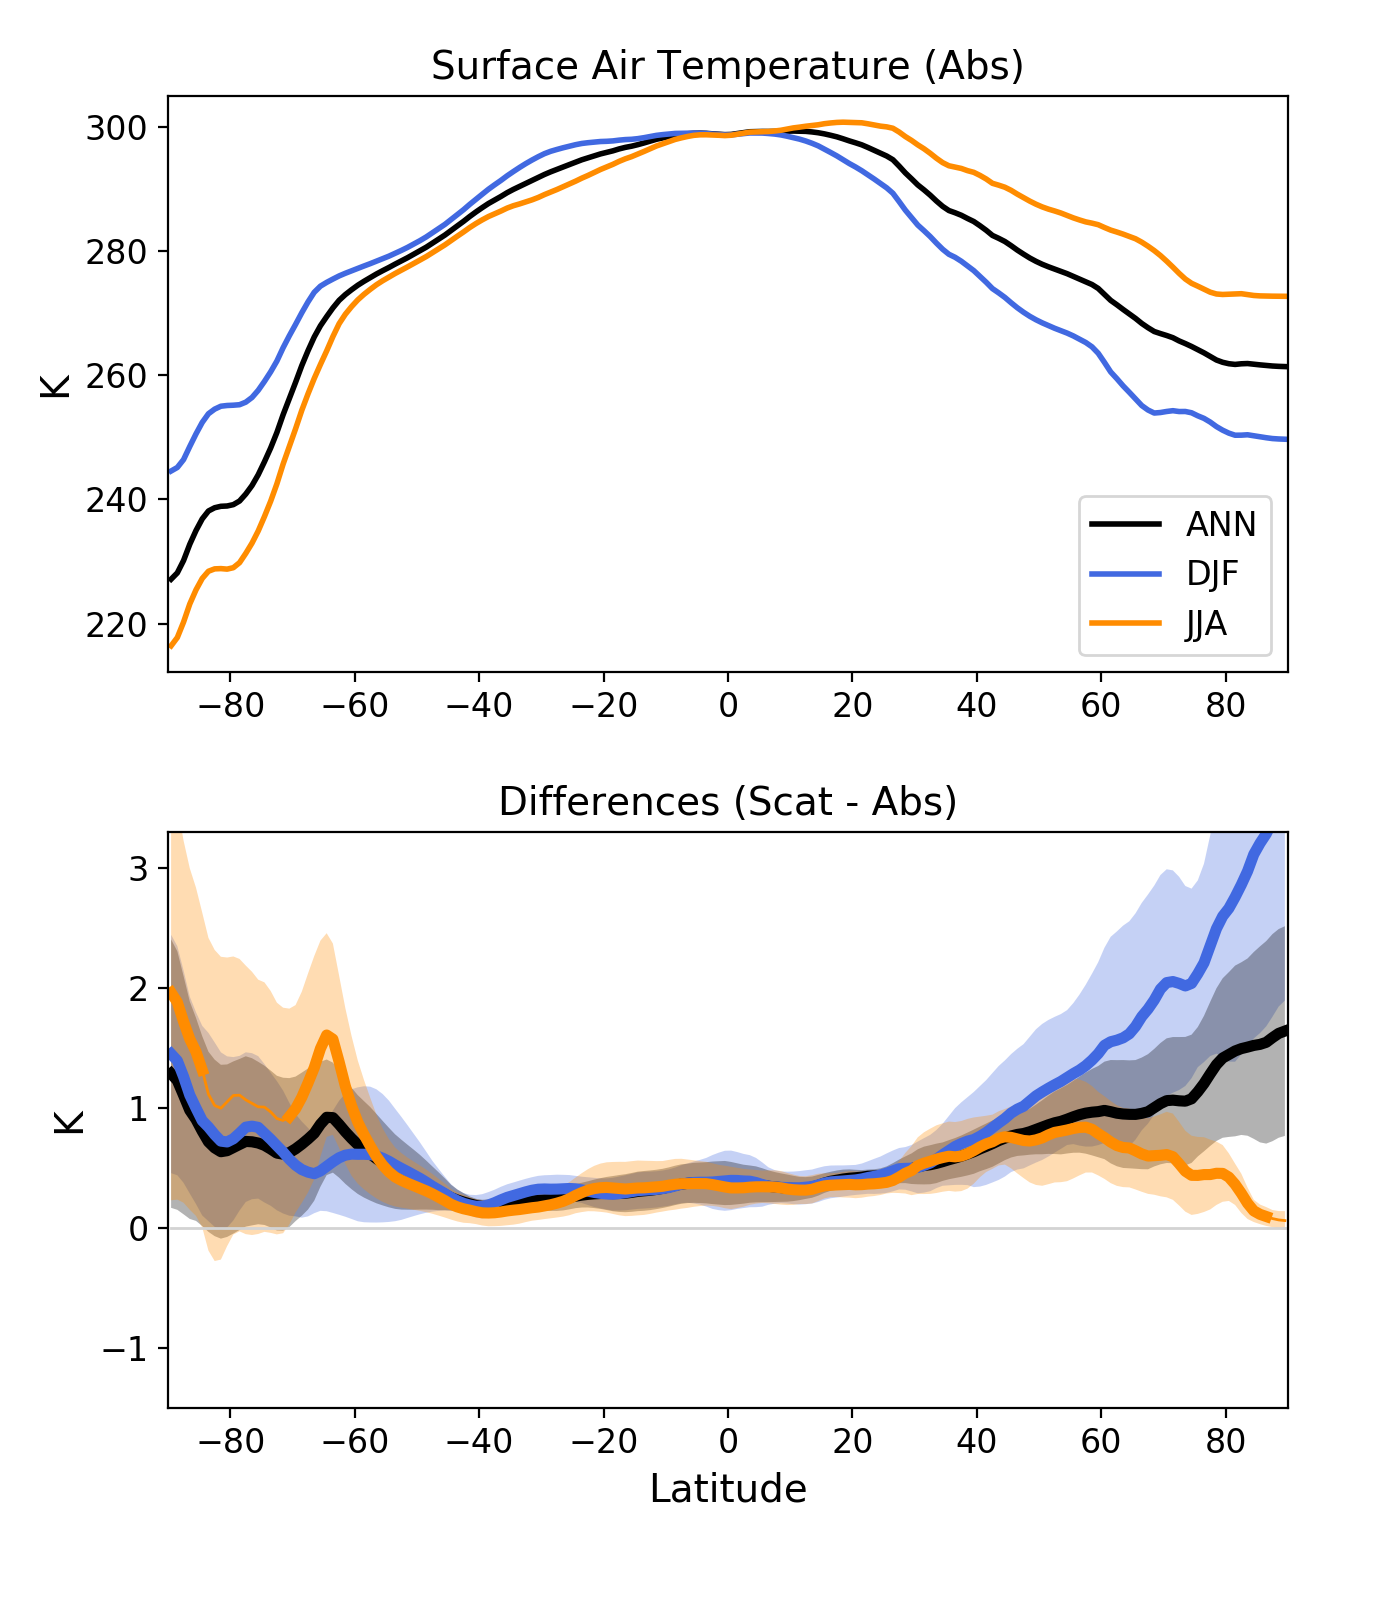
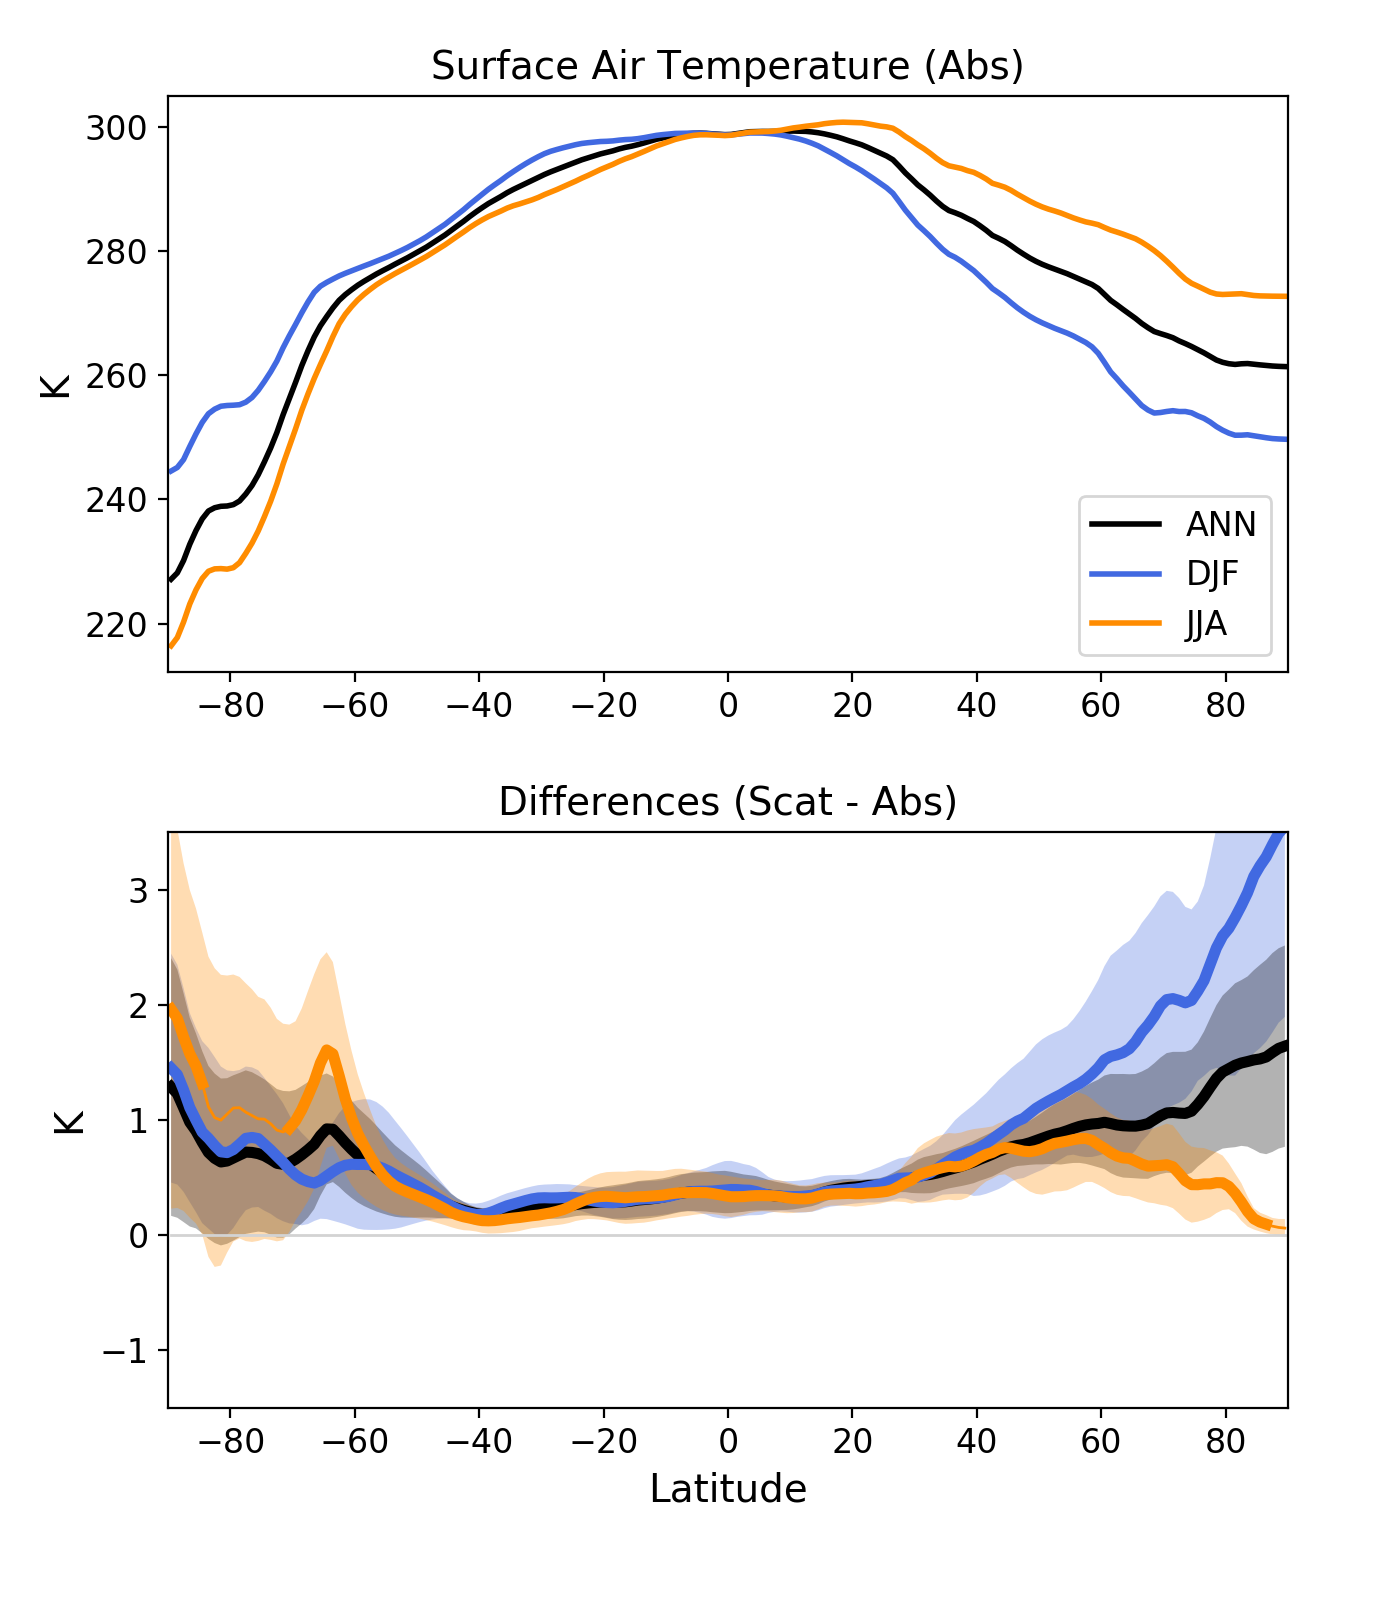
change ylim 2

Changed region(s): [[0.0921, 0.5, 0.9214, 0.7812], [0.7986, 0.5625, 0.8293, 0.5938]]

diff --git a/d4_zonal_mean_model_vs_model.py b/d4_zonal_mean_model_vs_model.py
@@ -265,7 +265,7 @@ ax2.set_title("Differences (Scat - Abs)",fontsize=14) #+var_long_name,fontsize=1
 ax2.set_ylabel(units,fontsize=14)
 ax2.set_xlabel("Latitude",fontsize=14)
 ax2.set_xlim(-90,90)
-ax2.set_ylim(-1.5,3.3)
+ax2.set_ylim(-1.5,3.5)
 plt.xticks(fontsize=12)
 plt.yticks(fontsize=12)
 
